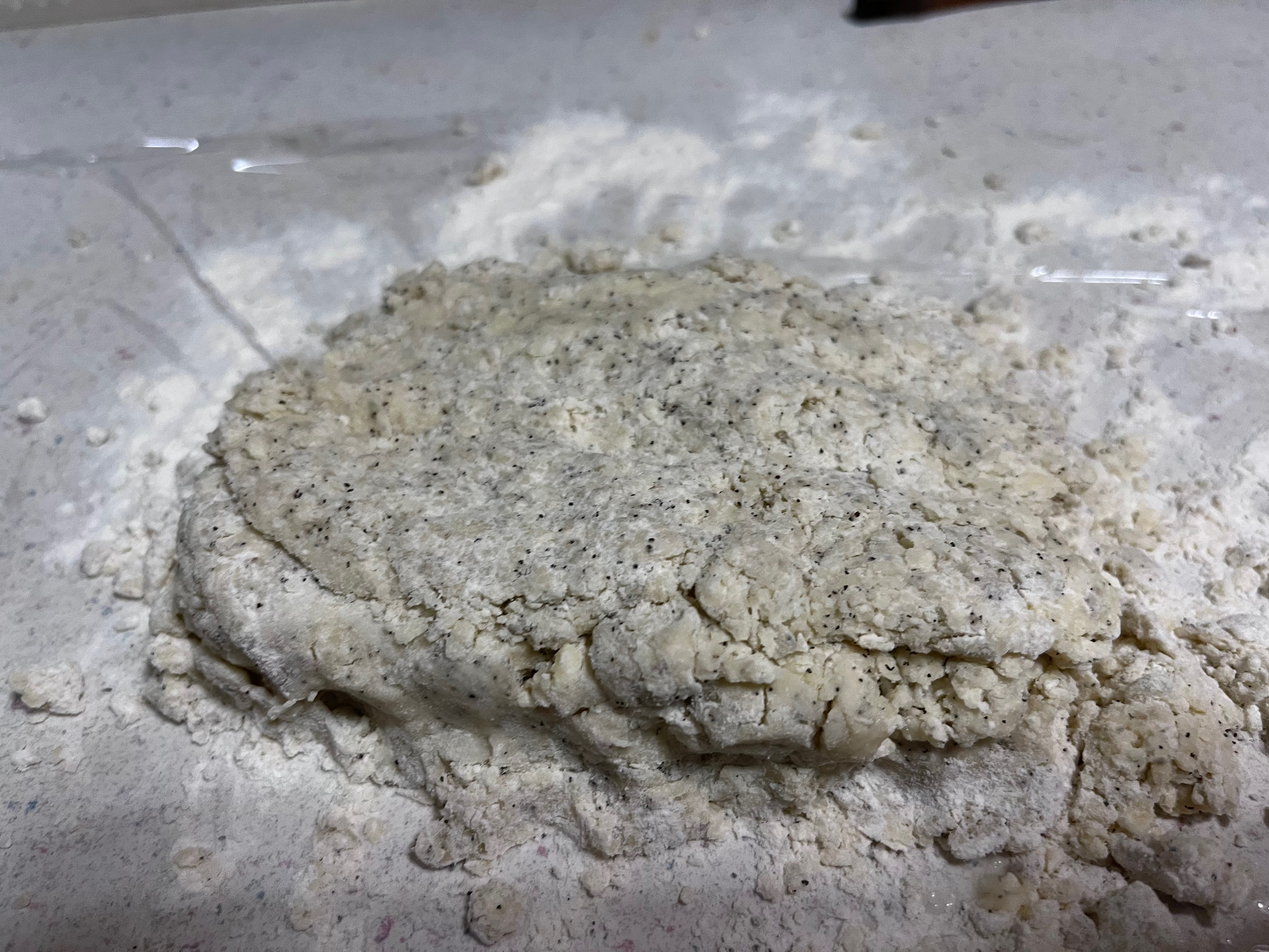
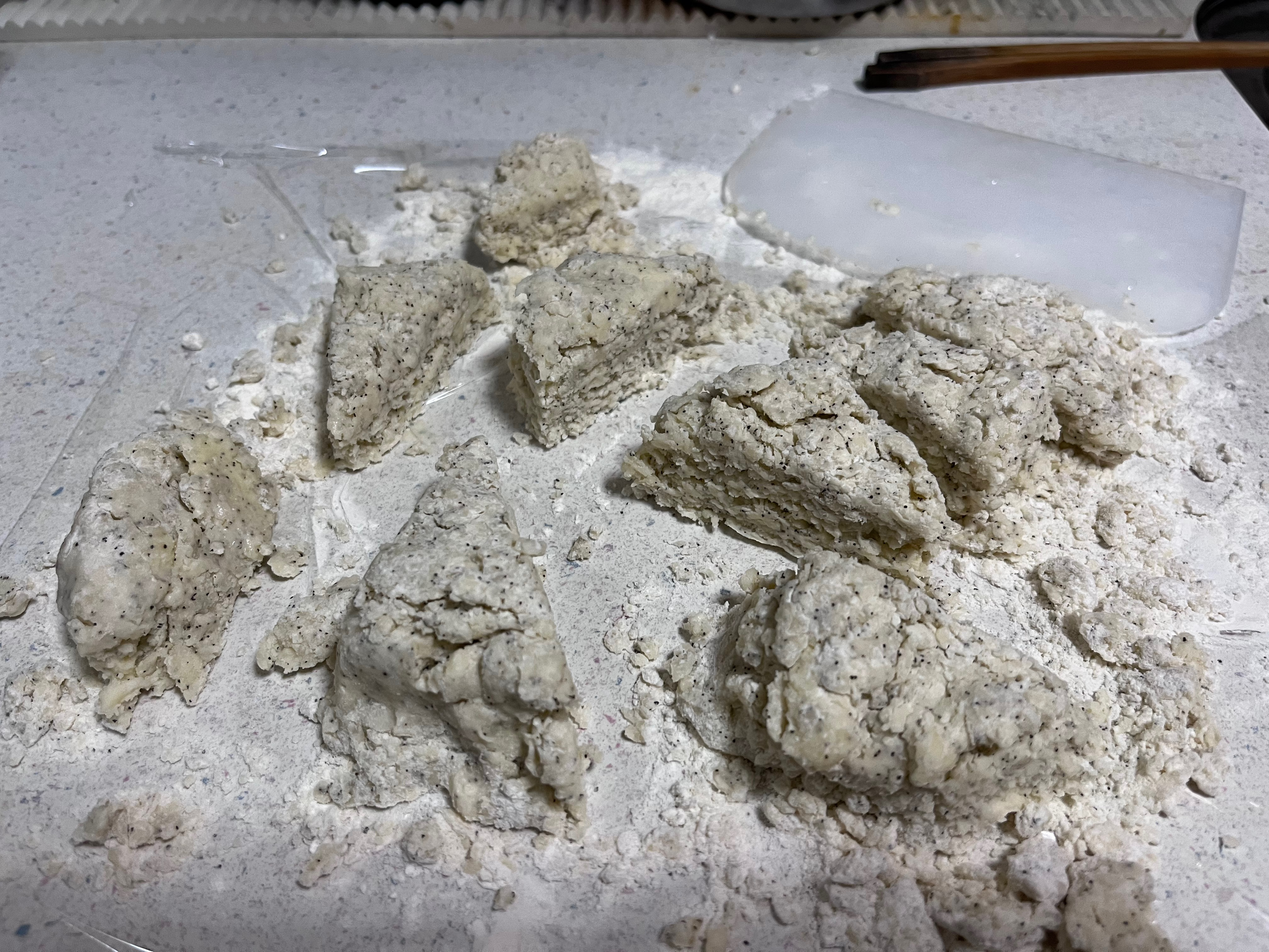
new post: 凜醬與快樂夥伴的茶會司康

diff --git a/content/posts/cook/2022/8-mitsuzuri-s-scone.md b/content/posts/cook/2022/8-mitsuzuri-s-scone.md
@@ -1,14 +1,21 @@
-Title: 為茶會準備酥脆的司康
-Date: 2022-08-31 22:55
+Title: 凜醬與快樂夥伴的茶會司康
+Date: 2022-07-06 23:51
 Category: Cook
 Tags: Fate, 衛宮家今天的餐桌風景
 Slug: mitsuzuri-s-scone
 Authors: Lee-W
-Cover:
-Status: draft
+Cover: /images/post-images/2022-mitsuzuri-s-scone/finish-1.jpeg
 
-## 食材 (人份)
-* 估計成本： 元
+司康真的是我怎麼做都做不太好的甜點...
+總共做了三次才做出這樣的成果
+
+<!--more-->
+
+## 食材 (16 塊，巧克力、紅茶各 8 塊）
+* 估計成本： 150（？） 元
+
+我是真的忘了...
+不過看這食材，我猜應該 150 左右可以吧？
 
 ### 原味司康
 
@@ -30,9 +37,9 @@ Status: draft
 | 巧克力 | 1 片 (50 ~ 80 g) |
 | 紅茶茶包 | 1 小袋 (2 g) |
 
-
-有人建議我低筋要多一點
-
+牛奶之所以寫 40 cc / 80 cc 是因為兩種口味的司康用的量不一樣
+80 cc 好像有比較成功
+雖然我覺得應該不是因為牛奶，但還是記錄一下
 
 ![material](/images/post-images/2022-mitsuzuri-s-scone/material.jpeg)
 
@@ -40,68 +47,71 @@ Status: draft
 ## 步驟
 * 估計時間： 1.5 小時
 
-奶油切成 3 公分塊狀，到使用前都先冷藏
-巧克力切成塊狀
-紅茶從紅茶包把茶葉取出來
+奶油切成 3 公分的塊狀，到**實際要使用前，都放在冰箱冷藏**
+（這可能是司康是否成功的關鍵 🤔）
+
+根據不同口味的司康，做法會小有不同
+不過主要只有配料的部分而已
+巧克力司康要先將巧克力切成塊狀
+紅茶司康則是要茶葉從紅茶包拿出來
+
+將 100 g 低筋麵粉、 50 g 高筋麵粉、9 g 泡打粉、15g 砂糖、鹽混合過篩
+如果是做紅茶司康要把茶葉一起加進去篩
 
 ![step-1](/images/post-images/2022-mitsuzuri-s-scone/step-1.jpeg)
 
 
-將低筋麵粉、高筋麵粉、泡打粉、砂糖、鹽混合後過篩
+過篩後的麵粉放入奶油（不能融化），揉捏麵團到小顆粒狀
 ![step-2](/images/post-images/2022-mitsuzuri-s-scone/step-2.jpeg)
 
+加入 40 或 80 g 牛奶和 20 g 優格
+用揉捏以外的方式混合成麵團
+可以用刮刀輕輕攪拌，接著將小麵團慢慢黏到大塊的麵團上
+從倒入牛奶開始必須在一分鐘內完成
+如果是巧克力司康的話，巧克力碎片要在這個階段加入
+無論如何，**不可以揉捏**
 
-如果是做紅茶司康要把茶葉一起加進去
 ![step-3](/images/post-images/2022-mitsuzuri-s-scone/step-3.jpeg)
 
-
-
-
-放入冰涼的奶油（奶油不能融化），揉捏麵團到小顆粒狀
-（可以用調理機來用）
 ![step-4](/images/post-images/2022-mitsuzuri-s-scone/step-4.jpeg)
 
-倒入牛奶和優格，用揉捏以外的方式混合成麵團
-一開始先用刮刀切開似地攪拌
-接著用手想把小塊麵團年到大塊麵團上，快速整理
-從倒入牛奶開始必須在一分鐘內完成
-巧克力是在這個階段混入
-無論如何，**不可以揉捏**
-![step-5](/images/post-images/2022-mitsuzuri-s-scone/step-5.jpeg)
+用保鮮膜將麵團包起來放入冰箱發酵 30 分鐘
+
+![step-5-1](/images/post-images/2022-mitsuzuri-s-scone/step-5-1.jpeg)
+
 ![step-5-2](/images/post-images/2022-mitsuzuri-s-scone/step-5-2.jpeg)
-
-
-
-用保鮮膜把麵團包起來放入冰箱發酵 30 分鐘
-
-![step-6-1](/images/post-images/2022-mitsuzuri-s-scone/step-6-1.jpeg)
-![step-6-2](/images/post-images/2022-mitsuzuri-s-scone/step-6-2.jpeg)
-
 
 將發酵後的麵團放到撒上高筋麵粉的檯面上
 
-![step-7](/images/post-images/2022-mitsuzuri-s-scone/step-7.jpeg)
+![step-6](/images/post-images/2022-mitsuzuri-s-scone/step-6.jpeg)
 
-將麵團攤平在折起來重複兩三次
+將麵團攤平後折起來 2 ~ 3 次
+
+![step-7-1](/images/post-images/2022-mitsuzuri-s-scone/step-7-1.jpeg)
+
+![step-7-2](/images/post-images/2022-mitsuzuri-s-scone/step-7-2.jpeg)
+
+將麵團切成約 2 cm 厚的 6 ~ 8 等分
+
 ![step-8-1](/images/post-images/2022-mitsuzuri-s-scone/step-8-1.jpeg)
 
 ![step-8-2](/images/post-images/2022-mitsuzuri-s-scone/step-8-2.jpeg)
 
+入烤箱前可以在麵團上刷蛋液
+我覺得吃起來沒什麼差，但是看起來會比較司康一點
 
-將麵團弄成約 2 cm 厚的 4 ~ 6 等分
+![step-9](/images/post-images/2022-mitsuzuri-s-scone/step-9.jpeg)
 
-![step-9-1](/images/post-images/2022-mitsuzuri-s-scone/step-9-1.jpeg)
-
-![step-9-2](/images/post-images/2022-mitsuzuri-s-scone/step-9-2.jpeg)
-
-刷蛋液
-![step-10-2](/images/post-images/2022-mitsuzuri-s-scone/step-10-2.jpeg)
-
-以預熱到 180 度的烤箱，烤 10 ~ 12 分鐘
-再用 200 度烤 2 ~ 3 分鐘
-
-
+烤箱先預熱到 180 度，烤 10 ~ 12 分鐘
+轉到 200 度再烤 2 ~ 3 分鐘
 
 ## 完成
+
+這次看起來終於比較成功了 👀
+單吃是有點太乾了，不過配茶吃倒是不錯
+
 ![finish-1](/images/post-images/2022-mitsuzuri-s-scone/finish-1.jpeg)
+
+凜醬跟他的快樂夥伴也是配著茶吃的 😆
+
 ![finish-2](/images/post-images/2022-mitsuzuri-s-scone/finish-2.jpeg)

diff --git a/content/pages/emiya-toc.md b/content/pages/emiya-toc.md
@@ -26,6 +26,7 @@ Date: 2021-08-28 16:48
 | [愛因茲貝倫城的聖誕烤牛肉]({filename}/posts/cook/2020/7-roast-beef-in-einzbern-castle.md) | 2 | 11 | [12](https://ani.gamer.com.tw/animeVideo.php?sn=16738) |
 | [冬季必吃的關東煮]({filename}/posts/cook/2021/19-emiya-s-oden.md) | | 12 | |
 | [間桐家的海藻吻仔魚義大利麵]({filename}/posts/cook/2020/5-matou-s-seaweed-whitebait-pasta.md) | | 13 | |
+| [凜醬與快樂夥伴的茶會司康]({filename}/posts/cook/2022/8-mitsuzuri-s-scone.md) | |  15 | |
 | [不輸給高級食材的南洋風咖哩]({filename}/posts/cook/2021/6-emiya-south-eastern-style-curry.md) | | 17 | |
 | [迦勒底特製 - 香煎龍排]({filename}/posts/cook/2021/9-chaldea-fried-steak.md) | | 番外2| |
 | [跨年蕎麥麵 - 明年也請多多指教]({filename}/posts/cook/2021/1-new-year-soba-noodles.md) | 3 | 20 | [1](https://ani.gamer.com.tw/animeVideo.php?sn=16727) | |
